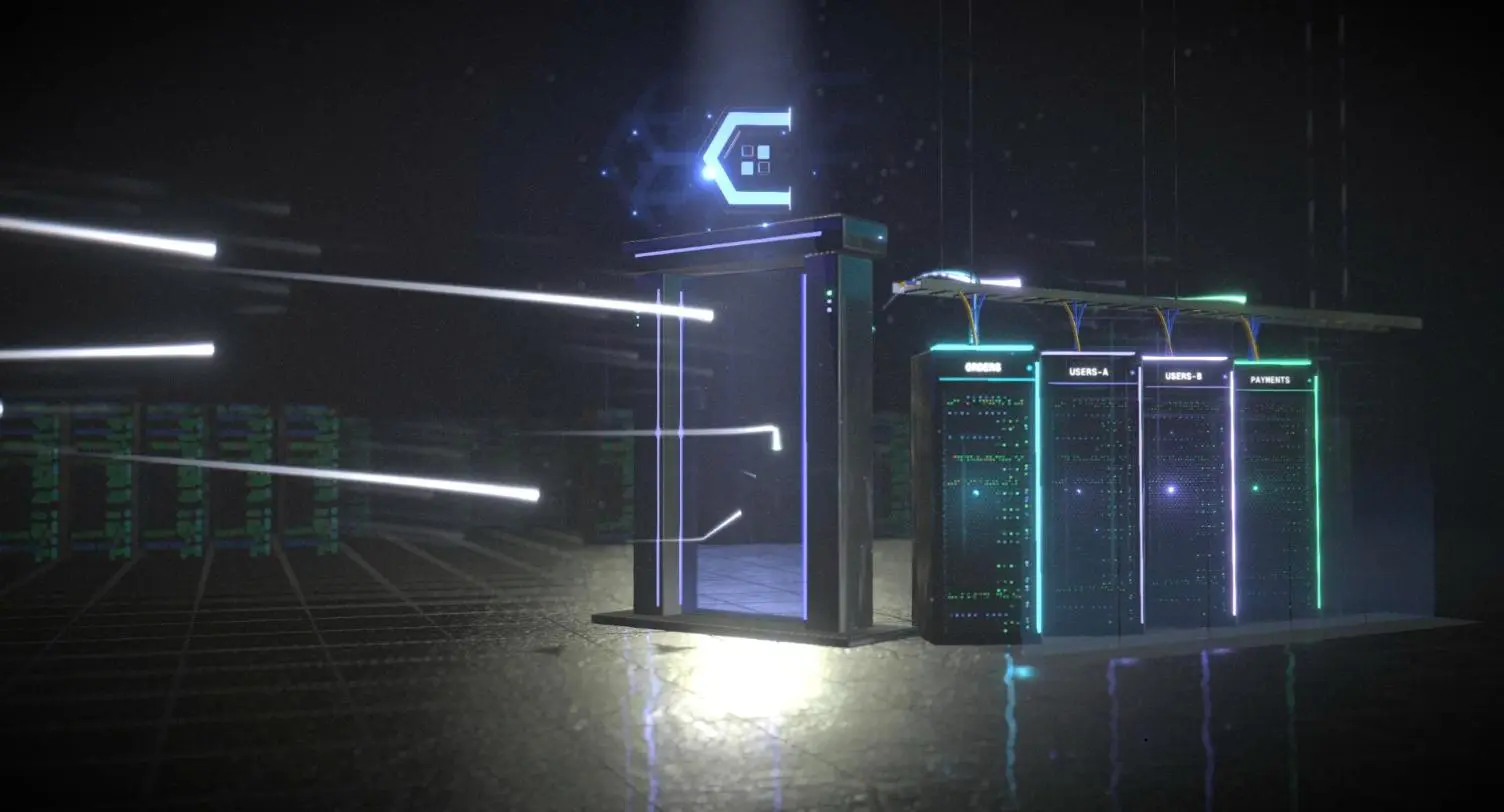
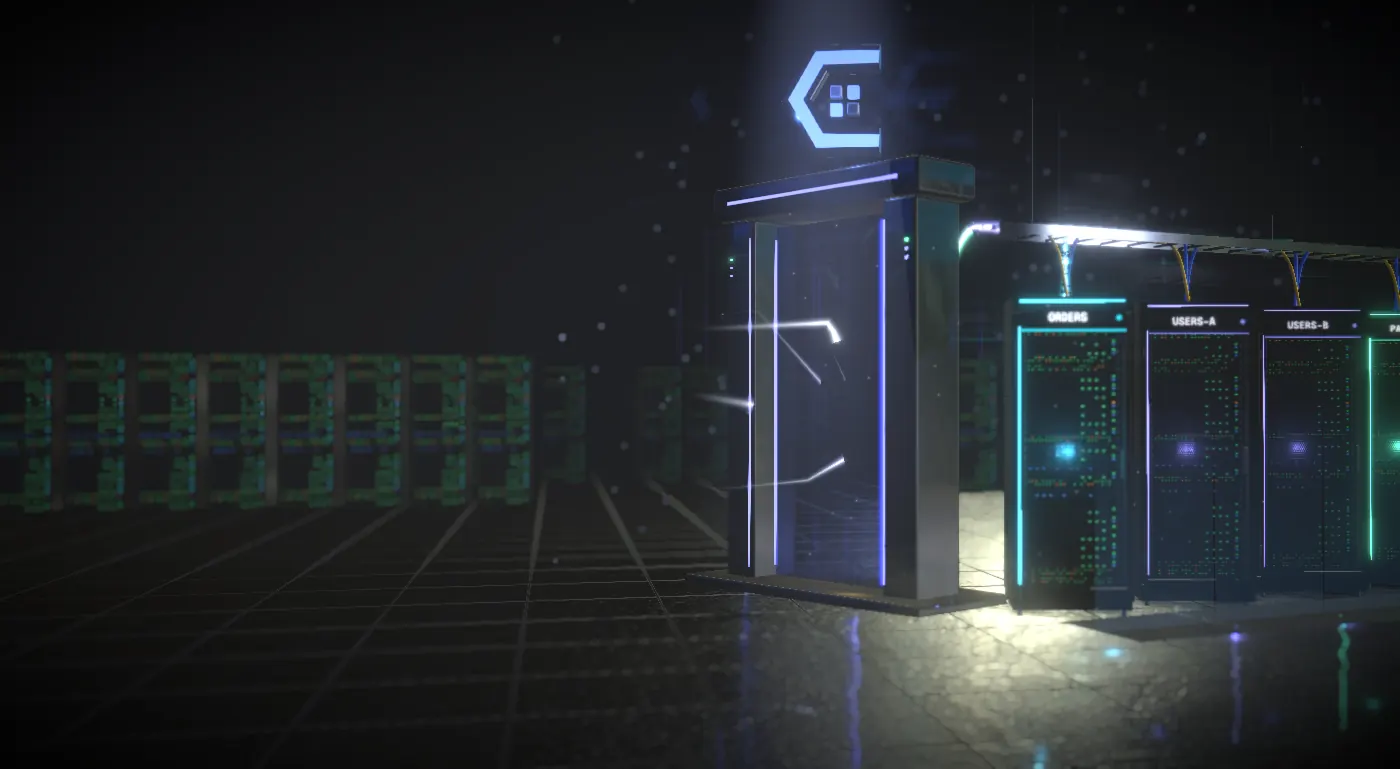
refactor: optimize 3d hero scene layout, animations, and mobile responsiveness

diff --git a/hero-3d.jsx b/hero-3d.jsx
@@ -93,9 +93,9 @@ const destOf = (p, gateT) => {
   return 'pay';
 };
 
-const ATTACKS = Array.from({ length: 16 }, (_, j) => ({
+const ATTACKS = Array.from({ length: 7 }, (_, j) => ({
   j,
-  s: 4.9 + j * 0.27 + rnd(j, 11) * 0.12,
+  s: 4.9 + j * 0.62 + rnd(j, 11) * 0.12, // one at a time: each is stopped on its own
   origin: [-24 + rnd(j, 12) * 10, 0.4 + rnd(j, 13) * 3.6, -13 + rnd(j, 14) * 20],
   entry: [0.45 + rnd(j, 15) * 2.7, (rnd(j, 16) - 0.5) * 1.4], // where it hits the shield
   bend: [(rnd(j, 17) - 0.5) * 2.5, (rnd(j, 18) - 0.5) * 3],
@@ -508,7 +508,7 @@ function CameraRig({ timeRef, reduce }) {
     const fov = THREE.MathUtils.clamp(33 * Math.pow(1.6 / aspect, aspect > 1.6 ? 0.3 : 0.55), 29, 46);
     // on wide layouts the headline owns the left half: pan the picture right (off-axis, so the shots
     // keep their angles) and let the light trails fade in only past the copy column
-    const wide = clamp01((aspect - 1.05) / 0.3);
+    const wide = W > 760 ? clamp01((aspect - 1.05) / 0.3) : 0; // phones: the copy is below the scene, not beside it
     const shift = Math.round(W * VIEW_SHIFT * wide);
     VIEW.fadeFrom = -1.4 + 1.38 * wide; // NDC x where trails start to show
     const cam = state.camera;
@@ -739,6 +739,8 @@ function useEmblemGeometry(half = 4.5, depth = 5, bevel = 1) {
   }, [half, depth, bevel]);
 }
 
+const CHASE = [0, 1, 3, 2]; // top-left, top-right, bottom-right, bottom-left
+const CUBE_PULSE = [0, 0, 0, 0];
 function Gate({ timeRef }) {
   const coreMat = useRef();
   const cubeMats = useRef([]);
@@ -772,7 +774,19 @@ function Gate({ timeRef }) {
     const gk = S.emblemGreen(t);
     tmp.copy(blue).lerp(green, gk).multiplyScalar(pulse * (1 + gk * 0.2));
     if (coreMat.current) coreMat.current.color.copy(tmp);
-    cubeMats.current.forEach((m, i) => m && (i === 1 || i === 2) && m.color.copy(tmp).multiplyScalar(0.9));
+    // the 2×2 squares of the mark light up in turn (clockwise) as requests cross the gate
+    CUBE_PULSE.fill(0);
+    for (const p of PACKETS) {
+      for (const s of [p.s, p.s - LOOP]) {
+        const d = t - (s + T_IN + T_GATE * 0.5);
+        if (d >= 0 && d < 0.45) { const j = CHASE[p.i % 4]; CUBE_PULSE[j] = Math.max(CUBE_PULSE[j], Math.exp(-d * 8)); }
+      }
+    }
+    cubeMats.current.forEach((m, i) => {
+      if (!m) return;
+      if (i === 1 || i === 2) m.color.copy(tmp).multiplyScalar(0.9 * (1 + 0.55 * CUBE_PULSE[i]));
+      else m.emissive.copy(tmp).multiplyScalar(0.35 * CUBE_PULSE[i]);
+    });
     seamMats.current.forEach((m) => m && m.color.setRGB(0.55, 0.6, 2.8).multiplyScalar(0.8 + 0.2 * Math.sin(t * 3)).lerp(green, gk * 0.6));
     if (scan.current) scan.current.position.y = 0.2 + ((t * 0.9) % 1) * 3.2;
     if (portal.current) portal.current.material.opacity = 0.18 + 0.05 * Math.sin(t * 1.7) + S.shield(t) * 0.05 + GATE_FLASH.value * 0.1;
@@ -844,7 +858,7 @@ function Gate({ timeRef }) {
           <RoundedBox key={i} args={[5, 5, 5]} radius={0.7} smoothness={3} position={[x, y, 0]}>
             {i === 1 || i === 2
               ? <meshBasicMaterial ref={(m) => (cubeMats.current[i] = m)} toneMapped={false} />
-              : <meshPhysicalMaterial color="#c3cbe0" metalness={1} roughness={0.22} clearcoat={1} />}
+              : <meshPhysicalMaterial ref={(m) => (cubeMats.current[i] = m)} color="#c3cbe0" metalness={1} roughness={0.22} clearcoat={1} />}
           </RoundedBox>
         ))}
       </group>
@@ -1147,7 +1161,7 @@ function Attacks({ timeRef }) {
             p.z + Math.cos(th) * h * sp * 0.7,
           );
           o3.rotation.set(th + h * 9, h * 7, k);
-          o3.scale.setScalar(0.035 * (1 - h / 0.9));
+          o3.scale.setScalar(0.018 * (1 - h / 0.9));
         } else {
           o3.scale.setScalar(0);
         }
@@ -1196,7 +1210,7 @@ function AttackImpacts({ timeRef }) {
   const sparks = useRef();
   const light = useRef();
   const tex = useMemo(() => crackTexture(), []);
-  const SP = 22;
+  const SP = 6;
   const col = useMemo(() => new THREE.Color(), []);
   useLayoutEffect(() => {
     for (let i = 0; i < ATTACKS.length * SP; i++) sparks.current.setColorAt(i, col.setRGB(0, 0, 0));
@@ -1230,7 +1244,7 @@ function AttackImpacts({ timeRef }) {
           vB.set(vA.x - vx * 0.03, vA.y - (vy - 9.8 * d) * 0.03, vA.z - vz * 0.03);
           placeAlong(sparks.current, idx, vA, vB, 0.06, 0.012);
           const life = 1 - d / 0.75;
-          sparks.current.setColorAt(idx, col.setRGB(3.2, 2.0 + life, 0.9 + life * 0.8).multiplyScalar(life));
+          sparks.current.setColorAt(idx, col.setRGB(2.6, 0.5 + life * 0.5, 0.6 + life * 0.4).multiplyScalar(life * 0.7)); // red, not a firework
         } else {
           o3.scale.setScalar(0); o3.updateMatrix(); sparks.current.setMatrixAt(idx, o3.matrix);
         }
@@ -1239,7 +1253,7 @@ function AttackImpacts({ timeRef }) {
     sparks.current.instanceMatrix.needsUpdate = true;
     sparks.current.instanceColor.needsUpdate = true;
     if (light.current) {
-      light.current.intensity = flash * 14;
+      light.current.intensity = flash * 9;
       if (at) light.current.position.set(at.x - 0.3, at.y, at.z);
     }
   });

diff --git a/home.css b/home.css
@@ -415,13 +415,13 @@
   isolation: isolate;
 }
 .hx3 { position: absolute; inset: 0; z-index: 0; background: radial-gradient(60% 70% at 64% 50%, #161a44 0%, #080a1c 55%, var(--hx-bg) 100%); }
-.hx3-poster { position: absolute; inset: 0; width: 100%; height: 100%; object-fit: cover; object-position: 58% 50%; transition: opacity .4s ease; }
+.hx3-poster { position: absolute; inset: 0; width: 100%; height: 100%; object-fit: cover; object-position: 50% 50%; transition: opacity .4s ease; }
 .hx3-fade, .hx3-canvas { position: absolute !important; inset: 0; width: 100%; height: 100%; }
 .hx-shade { /* legibility on the left + fade into the page below */
   position: absolute; inset: 0; z-index: 1; pointer-events: none;
   background:
     linear-gradient(90deg, rgba(5,6,15,.94) 0%, rgba(5,6,15,.82) 30%, rgba(5,6,15,.45) 46%, rgba(5,6,15,0) 62%),
-    linear-gradient(0deg, var(--hx-bg) 0%, rgba(5,6,15,0) 22%),
+    linear-gradient(0deg, var(--hx-bg) 0%, rgba(5,6,15,.75) 12%, rgba(5,6,15,0) 32%),
     linear-gradient(180deg, rgba(5,6,15,.6) 0%, rgba(5,6,15,0) 16%);
 }
 .hx-inner { position: relative; z-index: 2; width: 100%; padding-top: 120px; padding-bottom: 120px; pointer-events: none; }
@@ -481,10 +481,14 @@
 .hx-film-play { display: inline-flex; align-items: center; justify-content: center; width: 32px; height: 32px; border-radius: 50%; background: rgba(255,255,255,.14); border: 1px solid rgba(255,255,255,.22); transition: background .2s ease, transform .2s ease; }
 .hx-film-play svg { margin-left: 2px; }
 .hx-btn-film:hover .hx-film-play { background: rgba(255,255,255,.26); transform: scale(1.06); }
-.hx-film-dur { font: 500 12px var(--font-mono); color: rgba(255,255,255,.55); margin-left: 2px; }
+.hx-film-dur { font: 500 12px var(--font-mono); color: rgba(255,255,255,.8); margin-left: 2px; }
 .hx-btn-film:focus-visible { outline: 2px solid #a5b4fc; outline-offset: 2px; }
 
-.hx-facts { display: flex; flex-wrap: wrap; gap: 0; margin-top: 24px; border-top: 1px solid rgba(255,255,255,.1); padding-top: 22px; }
+.hx-facts { position: relative; display: flex; flex-wrap: wrap; gap: 0; margin-top: 24px; border-top: 1px solid rgba(255,255,255,.1); padding-top: 22px; }
+.hx-facts::before { /* keeps the row off the floor's reflection */
+  content: ''; position: absolute; z-index: -1; inset: -10px -60px -36px -60px; pointer-events: none;
+  background: radial-gradient(ellipse at 40% 55%, rgba(5,6,15,.82) 0%, rgba(5,6,15,.55) 45%, rgba(5,6,15,0) 72%);
+}
 .hx-fact { display: flex; flex-direction: column; gap: 3px; padding: 0 22px; border-left: 1px solid rgba(255,255,255,.1); }
 .hx-fact:first-child { padding-left: 0; border-left: 0; }
 .hx-fact-k { font: 600 11px var(--font-mono); letter-spacing: .04em; color: #a5b4fc; }
@@ -538,9 +542,12 @@
   /* phones: no panel, just the bar along the bottom edge of the hero */
   .hx-loader { left: 0; right: 0; bottom: 0; width: auto; padding: 0; border: 0; border-radius: 0; background: none; }
   .hx-loader-row { position: absolute; width: 1px; height: 1px; overflow: hidden; clip: rect(0 0 0 0); }
-  .hx-shade { background:
-    linear-gradient(90deg, rgba(5,6,15,.85) 0%, rgba(5,6,15,.45) 100%),
-    linear-gradient(0deg, var(--hx-bg) 0%, rgba(5,6,15,0) 25%); }
+  /* phones: the scene gets its own band under the nav, the copy sits below it on the dark ground */
+  .hx { align-items: flex-start; }
+  .hx3 { top: 60px; bottom: auto; height: 42svh; -webkit-mask-image: linear-gradient(180deg, #000 70%, transparent); mask-image: linear-gradient(180deg, #000 70%, transparent); }
+  .hx3-poster { object-position: 62% 50%; }
+  .hx-shade { background: linear-gradient(180deg, rgba(5,6,15,.55) 0%, rgba(5,6,15,0) 14%); }
+  .hx-inner { padding-top: calc(42svh + 36px); }
   .hx-sub { font-size: 16px; }
   .hx-fact { padding: 8px 14px 0 0; border-left: 0; }
   .hx-chapters { display: none; } /* not enough room under the copy on phones */

diff --git a/hero-stage.jsx b/hero-stage.jsx
@@ -105,7 +105,7 @@ export function HeroStage({ locale = 'en', paused = false }) {
     <>
       <div ref={hostRef} className="hx3" aria-hidden="true">
         {/* a still of the scene: shown while the 3D loads, and as the fallback without WebGL */}
-        <img className="hx3-poster" src="/hero3d/poster.webp" alt="" width="1504" height="812" decoding="async" fetchpriority="high" style={{ opacity: ready ? 0 : 1 }} />
+        <img className="hx3-poster" src="/hero3d/poster.webp" alt="" width="1400" height="769" decoding="async" fetchpriority="high" style={{ opacity: ready ? 0 : 1 }} />
         {mounted && (
           <Suspense fallback={null}>
             <motion.div className="hx3-fade" initial={{ opacity: 0 }} animate={{ opacity: ready ? 1 : 0 }} transition={{ duration: 0.4 }}>
